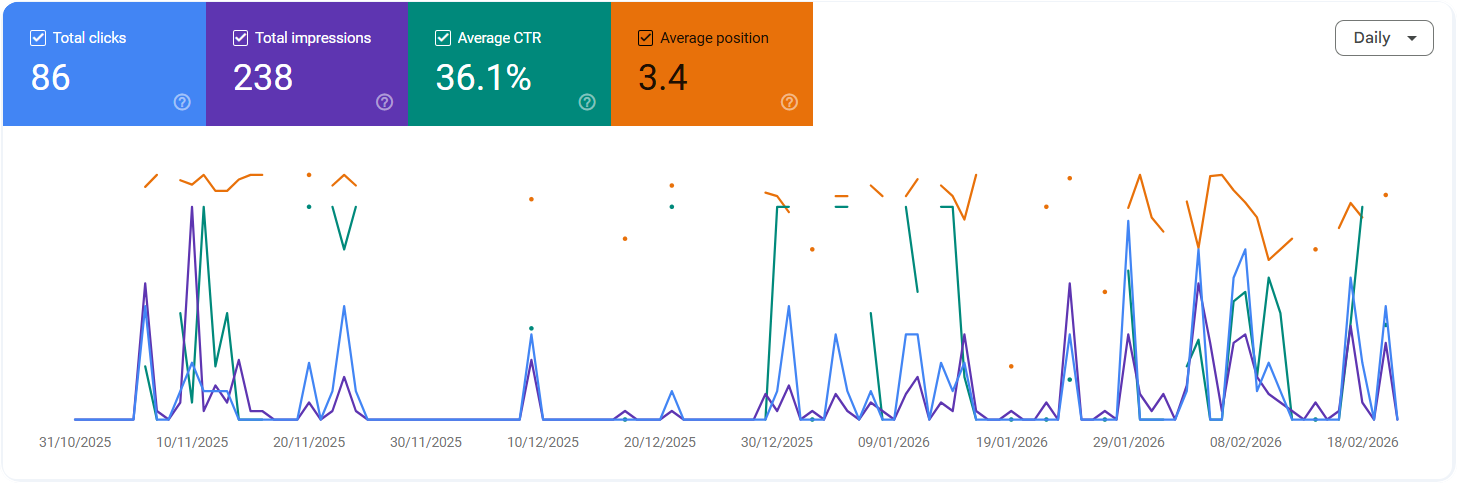
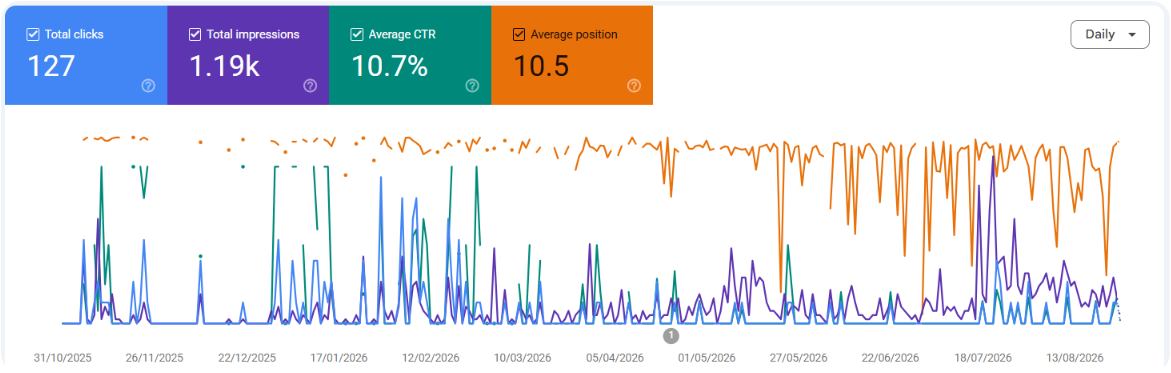
Completed

diff --git a/README.md b/README.md
@@ -36,8 +36,9 @@
 <img src="https://img.shields.io/badge/Git-F05032?style=for-the-badge&logo=git&logoColor=white"/>
 <img src="https://img.shields.io/badge/GitHub-181717?style=for-the-badge&logo=github&logoColor=white"/>
 <img src="https://img.shields.io/badge/Postman-FF6C37?style=for-the-badge&logo=postman&logoColor=white"/>
-<img src="https://img.shields.io/badge/Google%20Analytics-E37400?style=for-the-badge&logo=googleanalytics&logoColor=white"/>
 <img src="https://img.shields.io/badge/Google%20Search%20Console-4285F4?style=for-the-badge&logo=google&logoColor=white"/>
+<img src="https://img.shields.io/badge/Bing%20Webmaster%20Tools-0078D4?style=for-the-badge&logo=searxng&logoColor=white"/>
+<img src="https://img.shields.io/badge/Google%20Analytics-E37400?style=for-the-badge&logo=googleanalytics&logoColor=white"/>
 <img src="https://img.shields.io/badge/Vercel-000000?style=for-the-badge&logo=vercel&logoColor=white"/>
 <img src="https://img.shields.io/badge/Render-00D1FF?style=for-the-badge&logo=render&logoColor=white"/>
 </a>
@@ -48,13 +49,9 @@
 
 <div id="codeelevate-description">
   <h2><a href="#readme-index">CodeElevate - Elevate Your Coding Journey.</a></h2>
-  <h3>CodeElevate is a robust, scalable, and dynamic coder community platform built to empower competitive programmers, software developers, students, learners, and professionals. <br/>
-  The platform provides an all-in-one ecosystem featuring integrated coding and development statistics across multiple platforms, a community-driven and category-based ranking system, a real-time messaging system, a user connection system, post sharing and engagement, personalized profiles with an advanced profile management system, a notification system, and search and filter functionality. <br/>
-  It incorporates secure multi-factor authentication (MFA) and authorization mechanisms, including two-factor authentication (2FA) using Time-Based One-Time Password (TOTP). <br/>
-  The system is powered by seamless and optimized backend and frontend pipelines with structured database and cloud storage integration, along with performance and SEO optimization. Built using an MVC architecture for a modular, scalable, and maintainable codebase, the platform ensures production-grade, performance-driven reliability and achieves top Google search visibility through its SEO-optimized architecture. <br/>
-  It also features interactive custom 3D models, smooth animations, interactive 3D animations, and a modern, fully responsive UI/UX design. <br/>
-  The goal is to foster growth, collaboration, and innovation among coders worldwide.
-  </h3>
+  <h3>CodeElevate is a robust, scalable, and dynamic coder community platform built to empower competitive programmers, software developers, students, learners, and professionals.<br/>
+  The platform provides an all-in-one ecosystem featuring integrated coding and development statistics across multiple platforms, a community-driven and category-based ranking system, a real-time messaging system with online user detection and image messaging, a user connection system, post sharing and engagement with optimistic UI updates, personalized profiles with an advanced profile management system, a notification system, and search and filter functionality. It incorporates secure multi-factor authentication (MFA) and authorization mechanisms, including two-factor authentication (2FA) using Time-Based One-Time Password (TOTP) and QR-code based enrollment. The system is powered by seamless and optimized backend and frontend pipelines with structured database and cloud storage integration, intelligent caching system, along with performance and SEO optimization. Built using an MVC architecture with modular REST APIs, authentication, authorization, validation, and centralized error-handling layers for a scalable and maintainable codebase, the platform ensures production-grade, performance-driven reliability, efficient API usage, and enhanced scalability. It achieves top Google search visibility through its SEO-optimized architecture. It also features interactive custom 3D models, smooth animations, interactive 3D animations, and a modern, fully responsive UI/UX design.<br/>
+  The goal is to foster growth, collaboration, and innovation among coders worldwide.</h3>
 </div>
 
 <div id="codeelevate-live">
@@ -87,6 +84,11 @@
         <tr width="100%">
           <td width="100%" colspan="2" align="center">
             <h5>Production-Grade SEO, Indexing & Web Performance Implementation with Verified <br/>Top Google Search Visibility</h5>
+            <img src="./backend/src/lib/seo/seoAISearch.png" width="100%">
+          </td>
+        </tr>
+        <tr width="100%">
+          <td width="100%" colspan="2" align="center">
             <img src="./backend/src/lib/seo/seoSearchUpdated.png" width="100%">
           </td>
         </tr>
@@ -96,11 +98,13 @@
           </td>
         </tr>
         <tr width="100%">
-          <td width="50%">
-            <img src="./backend/src/lib/seo/seoSearchUpdated2.png" width="100%">
+          <td width="100%" colspan="2" align="center">
+            <img src="./backend/src/lib/seo/seoPerformance1.png" width="100%">
           </td>
-          <td width="50%">
-            <img src="./backend/src/lib/seo/seoSearchResult.png" width="100%">
+        </tr>
+        <tr width="100%">
+          <td width="100%" colspan="2" align="center">
+            <img src="./backend/src/lib/seo/googleAnalyticsCountry.png" width="100%">
           </td>
         </tr>
         <tr width="100%">
@@ -137,10 +141,42 @@
         </tr>
         <tr width="100%">
           <td width="50%">
-            <img src="./backend/src/lib/seo/seoResult.png" width="100%">
+            <img src="./backend/src/lib/seo/seoSearchUpdated2.png" width="100%">
           </td>
           <td width="50%">
-            <img src="./backend/src/lib/seo/seoSitemaps2.png" width="100%">
+            <img src="./backend/src/lib/seo/seoSearchUpdated3.png" width="100%">
+          </td>
+        </tr>
+        <tr width="100%">
+          <td width="50%">
+            <img src="./backend/src/lib/seo/seoSearchResult.png" width="100%">
+          </td>
+          <td width="50%">
+            <img src="./backend/src/lib/seo/seoResult.png" width="100%">
+          </td>
+        </tr>
+        <tr width="100%">
+          <td width="50%">
+            <img src="./backend/src/lib/seo/bingURLInspection.png" width="100%">
+          </td>
+          <td width="50%">
+            <img src="./backend/src/lib/seo/bingSitemap.png" width="100%">
+          </td>
+        </tr>
+        <tr width="100%">
+          <td width="50%">
+            <img src="./backend/src/lib/seo/googleAnalytics.png" width="100%">
+          </td>
+          <td width="50%">
+            <img src="./backend/src/lib/seo/googleAnalyticsUsers.png" width="100%">
+          </td>
+        </tr>
+        <tr width="100%">
+          <td width="50%">
+            <img src="./backend/src/lib/seo/googleAnalyticsCountry.png" width="100%">
+          </td>
+          <td width="50%">
+            <img src="./backend/src/lib/seo/googleAnalyticsGraph.png" width="100%">
           </td>
         </tr>
         <tr width="100%">
@@ -151,6 +187,11 @@
         <tr width="100%">
           <td width="100%" colspan="2" align="center">
             <img src="./backend/src/lib/seo/seoSitemaps1.png" width="100%">
+          </td>
+        </tr>
+        <tr width="100%">
+          <td width="100%" colspan="2" align="center">
+            <img src="./backend/src/lib/seo/seoSitemaps2.png" width="100%">
           </td>
         </tr>
         <tr width="100%">
@@ -230,7 +271,9 @@
 
 <div>
   <h2 id="overview"><a href="#readme-index">Overview 🖥</a></h2>
-  <h3>CodeElevate is a MERN stack-based web application that empowers users to showcase their coding and development profiles in one unified platform. It enables learners, competitive programmers, professionals, coders, and developers to analyze, track, and elevate their progress in both competitive programming and software development. Users can compete, connect, and grow together by earning ranks across multiple categories, building meaningful connections, and engaging through posts, connections, and real-time messaging features. At CodeElevate, our goal is to inspire growth, celebrate achievement, and build a community where every coder can rise to their full potential.</h3>
+  <h3>CodeElevate is a robust, scalable, and dynamic coder community platform built to empower competitive programmers, software developers, students, learners, and professionals. <br/>
+  The platform provides an all-in-one ecosystem featuring integrated coding and development statistics across multiple platforms, a community-driven and category-based ranking system, a real-time messaging system with online user detection and image messaging, a user connection system, post sharing and engagement with optimistic UI updates, personalized profiles with an advanced profile management system, a notification system, and search and filter functionality. It incorporates secure multi-factor authentication (MFA) and authorization mechanisms, including two-factor authentication (2FA) using Time-Based One-Time Password (TOTP) and QR-code based enrollment. The system is powered by seamless and optimized backend and frontend pipelines with structured database and cloud storage integration, intelligent caching system, along with performance and SEO optimization. Built using an MVC architecture with modular REST APIs, authentication, authorization, validation, and centralized error-handling layers for a scalable and maintainable codebase, the platform ensures production-grade, performance-driven reliability, efficient API usage, and enhanced scalability. It achieves top Google search visibility through its SEO-optimized architecture. It also features interactive custom 3D models, smooth animations, interactive 3D animations, and a modern, fully responsive UI/UX design. <br/>
+  The goal is to foster growth, collaboration, and innovation among coders worldwide.</h3>
 </div>
 
 ---
@@ -249,7 +292,7 @@
       <tr>
         <td>1.</td>
         <td><b>User Authentication & Authorization - Multi-Factor Authentication (MFA) with Two-Factor Authentication (2FA) using TOTP (Time-Based One-Time Password)</b></td>
-        <td>Robust and Secure authentication using Passport, Passport-Local-Strategy, Sessions, JWT, and Two-Factor Authentication (2FA) via TOTP and QR code for enhanced account protection.</td>
+        <td>Robust and Secure authentication using Passport, Passport-Local-Strategy, Sessions, JWT, session-based authentication, token-based authentication and Two-Factor Authentication (2FA) via TOTP and QR code for enhanced account protection.</td>
       </tr>
       <tr>
         <td>2.</td>
@@ -294,17 +337,17 @@
       <tr>
         <td>10.</td>
         <td><b>API (Application Programming Interface) Routes</b></td>
-        <td>Modular, secure REST API with layered authentication, authorization, Two-Factor Authentication (2FA), and validation middleware for scalability and maintainability.</td>
+        <td>Modular and secure REST API comprising 9 REST API modules with 45+ REST API endpoints covering authentication, profiles, messaging, rankings, posts, connections, notifications, competitive programming and coding statistics, and development statistics. Implemented layered middleware authentication, authorization, Two-Factor Authentication (2FA), request and data validation, centralized error handling, and API testing with Postman for scalability, reliability, and maintainability.</td>
       </tr>
       <tr>
         <td>11.</td>
         <td><b>Intelligent Stats Caching & Performance Optimization</b></td>
-        <td>Implemented a MongoDB-backed caching system using Mongoose with automatic TTL expiration for GitHub, LeetCode, Codeforces, and Ranking statistics. The system minimizes external API requests, improves response performance, handles API rate limits gracefully, supports stale-cache fallback responses, and enhances backend scalability and reliability.</td>
+        <td>Implemented a MongoDB-backed caching system using Mongoose with automatic TTL expiration for coding statistics (LeetCode & Codeforces), development statistics (GitHub), and category-based ranking system (Ranking statistics). The system minimizes external API requests, improves response performance, handles API rate limits gracefully, supports stale-cache fallback responses, and enhances backend scalability and reliability.</td>
       </tr>
       <tr>
         <td>12.</td>
         <td><b>Architecture & Security</b></td>
-        <td>Developed using the MERN Stack, Socket.IO, MVC Design Pattern, RESTful APIs and Cloudinary for cloud storage management, with Two-Factor Authentication, Authorization, and Validation layers implemented for Robust Performance and Security.</td>
+        <td>Developed using the MERN Stack with a modular MVC architecture, featuring React.js, Vite, Tailwind CSS, React Router DOM, React Context API for global session state management, Axios, React Hot Toast, React Slick, Socket.IO Client, Framer Motion, Three.js, Node.js, Express.js, MongoDB Atlas, Mongoose, RESTful APIs, GraphQL, Socket.IO, Cloudinary, Multer, and Multer-Storage-Cloudinary. The platform follows a scalable, component-based frontend and layered backend architecture with optimized folder structure, environment-based configuration using dotenv, client-side state management with incremental updates, real-time communication, responsive and accessible UI/UX, smooth UI transitions and animations, interactive custom 3D components with real-time 3D rendering and interactions, and performance-optimized and SEO-optimized implementation. Security is reinforced through Passport.js, Passport-Local-Strategy, Express-Session, Connect-Mongo, JWT, bcrypt.js, Cookie-Parser, Body-Parser, CORS, Joi validation, TOTP-based Two-Factor Authentication (2FA), QR-code authentication, authorization, request and data validation, and centralized error handling, with Cloudinary-based secure media storage and HTTPS-secured deployment, ensuring a robust, secure, scalable, maintainable, and production-ready application.</td>
       </tr>
       <tr>
         <td>13.</td>
@@ -325,7 +368,7 @@
       <tr>
       <td>16.</td>
       <td><b>Production-Grade SEO, Web Optimization & Performance Engineering</b></td>
-      <td>Implemented production-grade SEO and website optimization with Google Analytics 4 (GA4) and Google Search Console integration, SEO-friendly metadata, Open Graph tags, Twitter Card tags, canonical URLs, Schema.org JSON-LD structured data, robots.txt, sitemap.xml, manifest.json for web app metadata and theme configuration, mobile viewport optimization, Apple Touch configuration for PWA readiness, responsive rendering, preconnect & prefetch optimization, HTTPS-secured deployment, and Lighthouse-audited web performance validation for enhanced search visibility, accessibility, scalability, and user experience.</td>
+      <td>Implemented production-grade SEO and website optimization with Google Search Console, Bing Webmaster Tools, and Google Analytics 4 (GA4) integration, SEO-friendly metadata, Open Graph tags, Twitter Card tags, canonical URLs, Schema.org JSON-LD structured data, robots.txt, sitemap.xml, manifest.json for web app metadata and theme configuration, mobile viewport optimization, Apple Touch configuration for PWA readiness, responsive rendering, preconnect & prefetch optimization, HTTPS-secured deployment, and Lighthouse-audited web performance validation for enhanced search visibility, accessibility, scalability, and user experience. Achieved a verified #1 Google Search ranking for target queries and Lighthouse scores of 98 Performance, 96 Accessibility, 100 Best Practices, and 100 SEO, with Core Web Vitals including FCP 0.9s, LCP 1.0s, TBT 0ms, CLS 0.005, and Speed Index 0.9s.</td>
     </tr>
     </tbody>
   </table>
@@ -413,14 +456,14 @@
 ![GitHub REST API](https://img.shields.io/badge/GitHub%20REST%20API-black?style=for-the-badge&logo=github&logoColor=white) <br/>
 ![Google Search Console](https://img.shields.io/badge/Google%20Search%20Console-4285F4?style=for-the-badge&logo=google&logoColor=white)
 ![SEO-friendly Meta Tags](https://img.shields.io/badge/SEO-friendly%20Meta%20Tags-orange?style=for-the-badge)
-![Open Graph (OG) Tags](https://img.shields.io/badge/Open%20Graph%20(OG)%20Tags-blue?style=for-the-badge)
+![Open Graph (OG) Tags](<https://img.shields.io/badge/Open%20Graph%20(OG)%20Tags-blue?style=for-the-badge>)
 ![Twitter Card Meta Tags](https://img.shields.io/badge/Twitter%20Card%20Meta%20Tags-cyan?style=for-the-badge)
 ![Schema.org JSON-LD Structured Data](https://img.shields.io/badge/Schema.org%20JSON-LD%20Structured%20Data-green?style=for-the-badge)
 ![Robots.txt](https://img.shields.io/badge/Robots.txt-black?style=for-the-badge)
 ![Sitemap.xml](https://img.shields.io/badge/Sitemap.xml-red?style=for-the-badge)
 ![Manifest.json (Web App Metadata & Theme Colour)](https://img.shields.io/badge/Manifest.json-yellow?style=for-the-badge)
 ![Mobile Viewport Meta Tag](https://img.shields.io/badge/Mobile%20Viewport%20Meta%20Tag-lightblue?style=for-the-badge)
-![Apple Touch Configuration (PWA readiness)](https://img.shields.io/badge/Apple%20Touch%20Configuration%20(PWA%20readiness)-grey?style=for-the-badge)
+![Apple Touch Configuration (PWA readiness)](<https://img.shields.io/badge/Apple%20Touch%20Configuration%20(PWA%20readiness)-grey?style=for-the-badge>)
 ![Theme Colour for Browser UI](https://img.shields.io/badge/Theme%20Colour%20for%20Browser%20UI-pink?style=for-the-badge)
 ![Fast build using Vite](https://img.shields.io/badge/Fast%20build%20using%20Vite-646CFF?style=for-the-badge&logo=vite&logoColor=white)
 ![TailwindCSS for Lightweight CSS](https://img.shields.io/badge/TailwindCSS%20for%20Lightweight%20CSS-06B6D4?style=for-the-badge&logo=tailwind-css&logoColor=white)
@@ -437,8 +480,9 @@
 ![VS Code](https://img.shields.io/badge/VS%20Code-007ACC?style=for-the-badge&logo=visualstudiocode&logoColor=white)
 ![Git](https://img.shields.io/badge/Git-F05033?style=for-the-badge&logo=git&logoColor=white)
 ![GitHub](https://img.shields.io/badge/GitHub-181717?style=for-the-badge&logo=github&logoColor=white)
-![Google Analytics](https://img.shields.io/badge/Google%20Analytics%204%20(GA4)-E37400?style=for-the-badge&logo=googleanalytics&logoColor=white)
 ![Google Search Console](https://img.shields.io/badge/Google%20Search%20Console-4285F4?style=for-the-badge&logo=google&logoColor=white)
+![Bing Webmaster Tools](https://img.shields.io/badge/Bing%20Webmaster%20Tools-0078D4?style=for-the-badge&logo=searxng&logoColor=white)
+![Google Analytics](https://img.shields.io/badge/Google%20Analytics%204%20(GA4)-E37400?style=for-the-badge&logo=googleanalytics&logoColor=white)
 ![Canva](https://img.shields.io/badge/Canva-20A4F3?style=for-the-badge&logo=canva&logoColor=white) <br/>
 ![Vercel](https://img.shields.io/badge/Vercel-000000?style=for-the-badge&logo=vercel&logoColor=white)
 ![Render](https://img.shields.io/badge/Render-00D1FF?style=for-the-badge&logo=render&logoColor=white)
@@ -496,7 +540,7 @@
         <tr>
           <td>&#10148;</td>
           <td>Development Tools & Libraries</td>
-          <td>Nodemon, Vite Build, dotenv, Postman, Hoppscotch, Thunder Client, VS Code, Git, GitHub, Google Analytics 4 (GA4), Google Search Console, Canva (for UI Assets)</td>
+          <td>Nodemon, Vite Build, dotenv, Postman, Hoppscotch, Thunder Client, VS Code, Git, GitHub, Google Search Console, Bing Webmaster Tools, Google Analytics 4 (GA4), Canva (for UI Assets)</td>
         </tr>
         <tr>
           <td>&#10148;</td>
@@ -624,12 +668,18 @@
 │   │   │   │   ├── mongodbDatabaseStructure.png
 │   │   │   │   └── prevMongodbDatabaseStructure.png
 │   │   │   ├── 📁 seo
+│   │   │   │   ├── bingSitemap.png
+│   │   │   │   ├── bingURLInspection.png
 │   │   │   │   ├── crawlStats1.png
 │   │   │   │   ├── crawlStats2.png
+│   │   │   │   ├── googleAnalytics.png
+│   │   │   │   ├── googleAnalyticsCountry.png
+│   │   │   │   ├── googleAnalyticsGraph.png
+│   │   │   │   ├── googleAnalyticsUsers.png
 │   │   │   │   ├── httpsReport.png
 │   │   │   │   ├── indexedPages1.png
 │   │   │   │   ├── indexedPages2.png
-│   │   │   │   ├── robotsStats1.png
+│   │   │   │   ├── robotsStats.png
 │   │   │   │   ├── seoPerformance1.png
 │   │   │   │   ├── seoPerformance2.png
 │   │   │   │   ├── seoResult.png
@@ -1073,12 +1123,30 @@ git push origin feature/your-feature-name
       </tr>
       <tr>
         <td width="45%">
-          <h3 align="center">Competitive Programming Stats System</h3>
+          <h3 align="center">Competitive Programming and Coding Statistics System</h3>
           <img src="./backend/src/lib/diagrams/cpStatsSystemDiagram.png" width="100%">
         </td>
         <td width="45%">
-          <h3 align="center">Development Stats System</h3>
+          <h3 align="center">Development Statistics System</h3>
           <img src="./backend/src/lib/diagrams/devsStatsSystemDiagram.png" width="100%">
+        </td>
+      </tr>
+      <tr>
+        <td width="90%" colspan="2" align="center">
+          <h3 align="center">System Architecture Design</h3>
+          <img src="./backend/src/lib/docs/codeElevateArchitecture.png" width="100%">
+        </td>
+      </tr>
+      <tr>
+        <td width="90%" colspan="2" align="center">
+          <h3 align="center">Database Structure Design</h3>
+          <img src="./backend/src/lib/docs/mongodbDatabaseStructure.png" width="100%">
+        </td>
+      </tr>
+      <tr>
+        <td width="90%" colspan="2" align="center">
+          <h3 align="center">Ranked #1 on Google Search with AI-Verified Detailed Information and strong SEO visibility</h3>
+          <img src="./backend/src/lib/seo/seoAISearch.png" width="100%">
         </td>
       </tr>
       <tr>
@@ -1094,13 +1162,15 @@ git push origin feature/your-feature-name
         </td>
       </tr>
       <tr>
-        <td width="45%">
-          <h3 align="center">Google Search Visibility</h3>
-          <img src="./backend/src/lib/seo/seoSearchUpdated2.png" width="100%">
+        <td width="90%" colspan="2" align="center">
+          <h3 align="center">SEO Google Search Console</h3>
+          <img src="./backend/src/lib/seo/seoPerformance1.png" width="100%">
         </td>
-        <td width="45%">
-          <h3 align="center">Google Search Visibility with Different Logo Icon</h3>
-          <img src="./backend/src/lib/seo/seoSearchResult.png" width="100%">
+      </tr>
+      <tr>
+        <td width="90%" colspan="2" align="center">
+          <h3 align="center">SEO Google Analytics</h3>
+          <img src="./backend/src/lib/seo/googleAnalyticsCountry.png" width="100%">
         </td>
       </tr>
       <tr>
@@ -1145,12 +1215,58 @@ git push origin feature/your-feature-name
       </tr>
       <tr>
         <td width="45%">
-          <h3 align="center">SEO Sitemaps Success</h3>
-          <img src="./backend/src/lib/seo/seoSitemaps2.png" width="100%">
+          <h3 align="center">Google Search Visibility</h3>
+          <img src="./backend/src/lib/seo/seoSearchUpdated2.png" width="100%">
         </td>
         <td width="45%">
+          <h3 align="center">Google Search Visibility with Different Query</h3>
+          <img src="./backend/src/lib/seo/seoSearchUpdated3.png" width="100%">
+        </td>
+      </tr>
+      <tr>
+        <td width="45%">
           <h3 align="center">Search Visibility</h3>
+          <img src="./backend/src/lib/seo/seoSearchResult.png" width="100%">
+        </td>
+        <td width="45%">
+          <h3 align="center">Search Visibility with Logo Icon</h3>
           <img src="./backend/src/lib/seo/seoResult.png" width="100%">
+        </td>
+      </tr>
+      <tr>
+        <td width="45%">
+          <h3 align="center">Bing URL Inspection</h3>
+          <img src="./backend/src/lib/seo/bingURLInspection.png" width="100%">
+        </td>
+        <td width="45%">
+          <h3 align="center">Bing Webmaster Tools SEO & Sitemap Success</h3>
+          <img src="./backend/src/lib/seo/bingSitemap.png" width="100%">
+        </td>
+      </tr>
+      <tr>
+        <td width="45%">
+          <h3 align="center">Google Analytics Audience</h3>
+          <img src="./backend/src/lib/seo/googleAnalytics.png" width="100%">
+        </td>
+        <td width="45%">
+          <h3 align="center">Google Analytics Report</h3>
+          <img src="./backend/src/lib/seo/googleAnalyticsUsers.png" width="100%">
+        </td>
+      </tr>
+      <tr>
+        <td width="45%">
+          <h3 align="center">Google Analytics User Overview</h3>
+          <img src="./backend/src/lib/seo/googleAnalyticsCountry.png" width="100%">
+        </td>
+        <td width="45%">
+          <h3 align="center">Google Analytics Demographic Details</h3>
+          <img src="./backend/src/lib/seo/googleAnalyticsGraph.png" width="100%">
+        </td>
+      </tr>
+      <tr>
+        <td width="90%" colspan="2" align="center">
+          <h3 align="center">robots.txt Accepted and Successfully Validated</h3>
+          <img src="./backend/src/lib/seo/robotsStats.png" width="100%">
         </td>
       </tr>
       <tr>
@@ -1161,8 +1277,8 @@ git push origin feature/your-feature-name
       </tr>
       <tr>
         <td width="90%" colspan="2" align="center">
-          <h3 align="center">robots.txt Accepted and Successfully Validated</h3>
-          <img src="./backend/src/lib/seo/robotsStats.png" width="100%">
+          <h3 align="center">SEO Sitemaps Success</h3>
+          <img src="./backend/src/lib/seo/seoSitemaps2.png" width="100%">
         </td>
       </tr>
       <tr>
@@ -1201,7 +1317,7 @@ git push origin feature/your-feature-name
     <table width="95%" align="center" border="0">
       <tr>
         <td width="45%">
-          <h3 align="center">Two Factor Authentication using TOTP</h3>
+          <h3 align="center">Two Factor Authentication using TOTP & QR Code Enrollment</h3>
           <img src="./frontend/public/about/authentication.png" width="100%">
         </td>
         <td width="45%">
@@ -1215,7 +1331,7 @@ git push origin feature/your-feature-name
           <img src="./frontend/public/about/searchFunctionality.png" width="100%">
         </td>
         <td width="45%">
-          <h3 align="center">User Profile Stats</h3>
+          <h3 align="center">User Profile Statistics</h3>
           <img src="./frontend/public/about/profileStatsPreview.png" width="100%">
         </td>
       </tr>
@@ -1348,8 +1464,9 @@ git push origin feature/your-feature-name
   
 ### Omkar Ardekar 💻
 
-[![LinkedIn](https://img.shields.io/badge/LinkedIn-0A66C2?style=for-the-badge&logo=circuitverse&logoColor=white)](https://www.linkedin.com/in/omkarardekar09)
 [![GitHub](https://img.shields.io/badge/GitHub-000?style=for-the-badge&logo=github&logoColor=white)](https://github.com/OmkarArdekar12)
+[![LinkedIn](https://img.shields.io/badge/LinkedIn-0A66C2?style=for-the-badge&logo=circuitverse&logoColor=white)](https://www.linkedin.com/in/omkarardekar09)
+[![Portfolio](https://img.shields.io/badge/Portfolio-FFA012?style=for-the-badge&logo=codementor)](https://omkarardekar.vercel.app)
 
   </div>
 </div>
